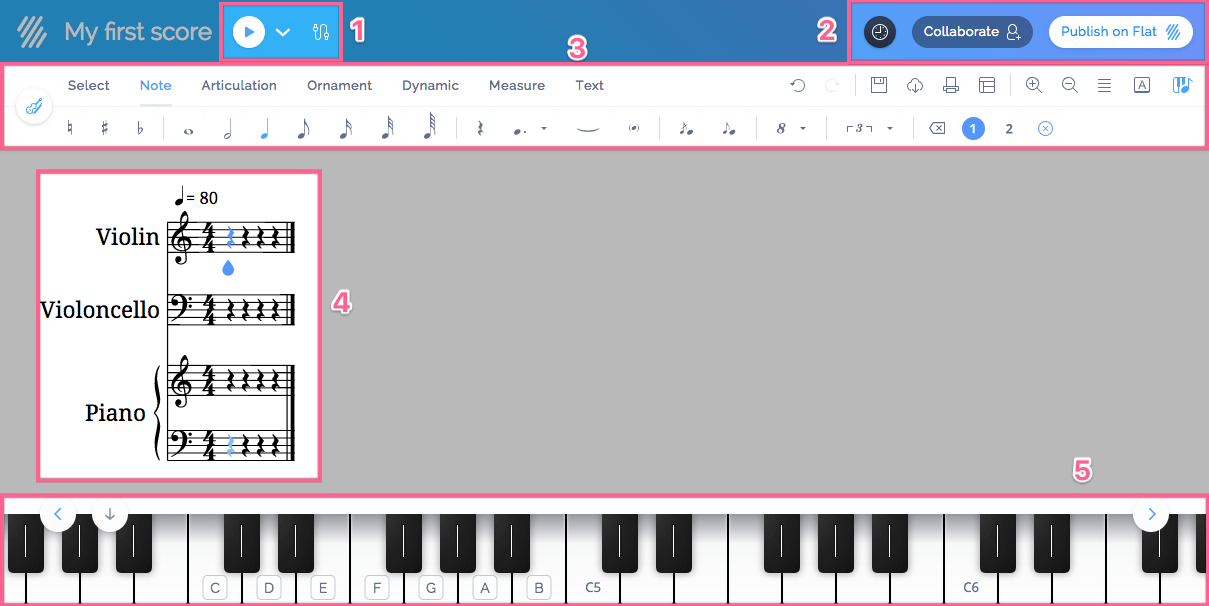
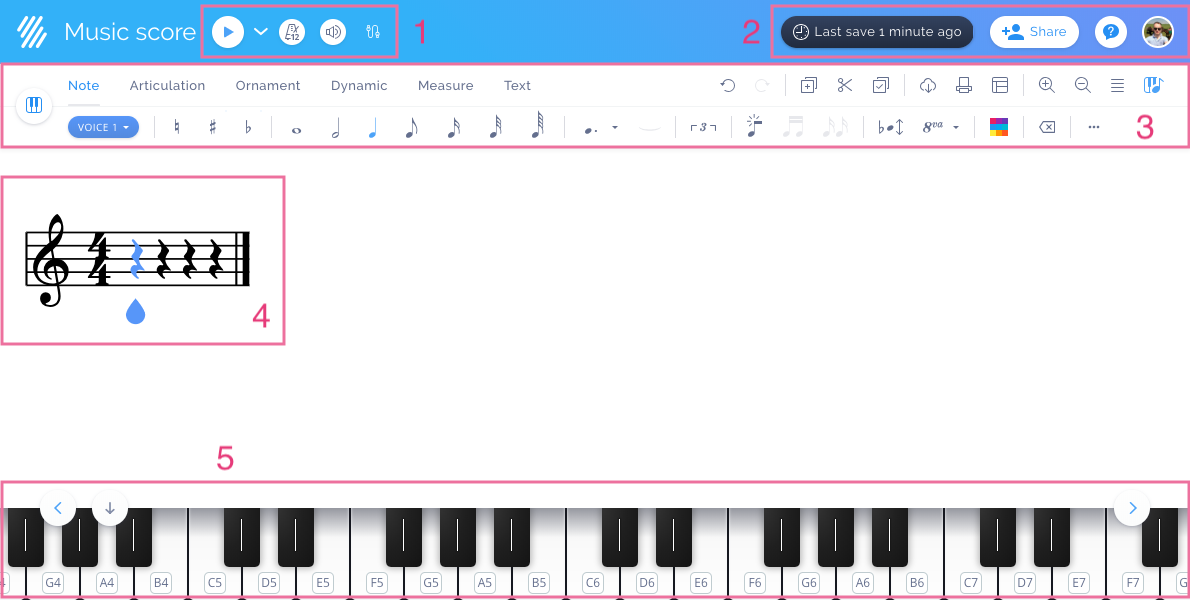
docs: discover ui, mobile

diff --git a/docs/en/editor/discover-interface.md b/docs/en/editor/discover-interface.md
@@ -11,10 +11,23 @@ nexttext: Inputting your first notes
 
 We designed our editor interface to be really simple and easy-to-use, discover its main elements:
 
+## Desktop/Laptop version
+
 ![Flat Web App: Web-based music notation editor](/help/assets/img/editor/editor-overview-highlights.png)
 
 1. The [playback](/help/en/music-notation-software/playback.html) and [MIDI devices settings](https://flat.io/midi-devices/setup).
-2. Collaboration tools: [Smart History](https://blog.flat.io/introducing-smart-history/), [Collaborators and Sharing/Publication](/help/en/music-notation-software/share-collaborate.html) settings.
+2. Collaboration tools: [History](https://blog.flat.io/introducing-smart-history/), [Collaborators and Sharing/Publication](/help/en/music-notation-software/share-collaborate.html) settings.
 3. Toolbars with all the notation tools
 4. Your music notation
 5. For touch screens: a small piano that allows you to quickly inputs notes and chords. You can also open it anytime using the icon on the right of the toolbar.
+
+## Mobile/Tablet version
+
+Mobile and tablets gets a dedicated web interface that includes all the tools of our desktop/laptop interface (see below).
+
+This mobile web interface have the same tools that our desktop web app. Document tools (Document settings, History, Export, Sharing, Help) are available on the top of the screen, and toolbars with notations tools and input keyboards at the bottom of the screen.
+
+While most of the examples in this help includes screenshots of our desktop interface, all the tools will be located at the same place on our mobile interface.
+
+<img src="/help/assets/img/editor/mobile-interface.png" style="width: 400px; border: 0;" alt="Flat Web App: Mobile & Tablet version">
+

diff --git a/docs/en/general/faq-mobile-app.md b/docs/en/general/faq-mobile-app.md
@@ -20,4 +20,4 @@ Discover a quick demo of our iOS app below:
 
 Flat also perfectly works as a mobile web app that you can use online and offline. Simply open [flat.io](https://flat.io) in your preferred mobile web browser and sign in with your Flat account to use it.
 
-<img src="/help/assets/img/editor/editor-mobile-layout.jpg" style="width: 300px; border: 0;" alt="Flat on Chrome for Android">
+<img src="/help/assets/img/editor/mobile-interface.png" style="width: 300px; border: 0;" alt="Flat on Chrome for Android">
